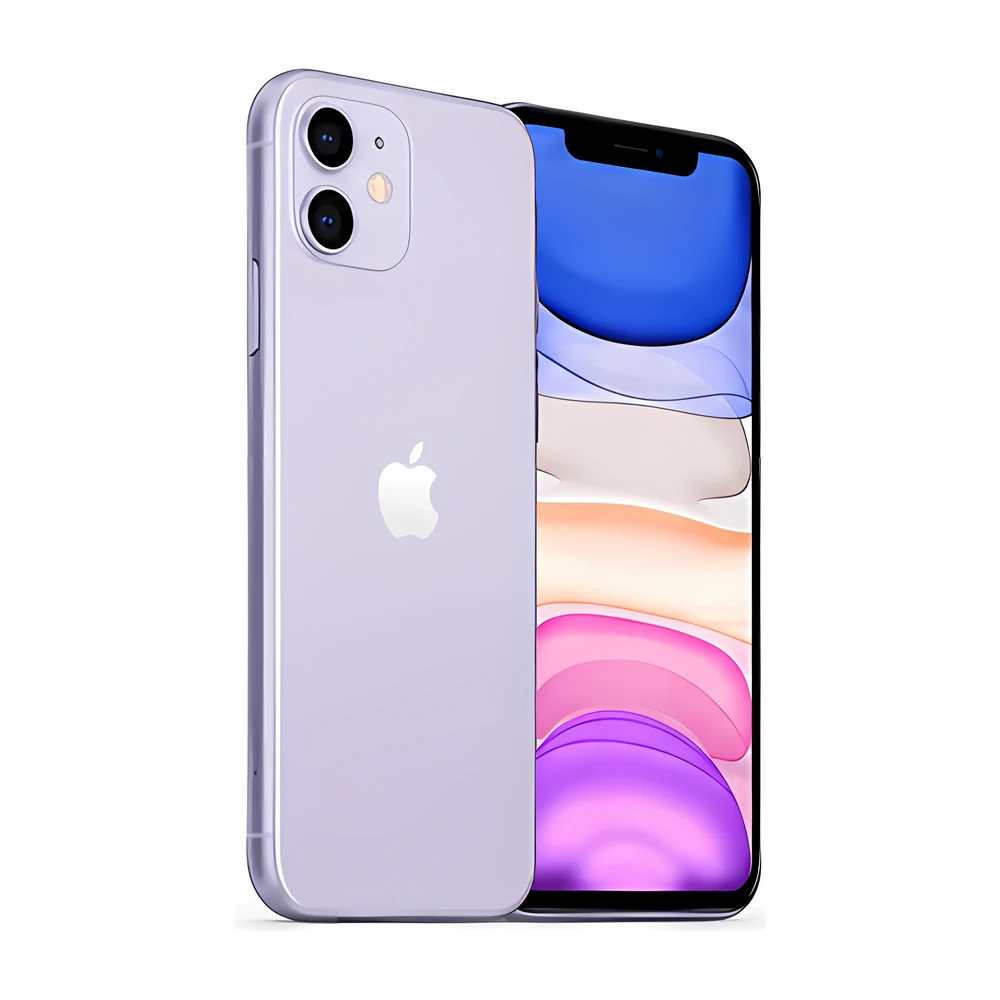
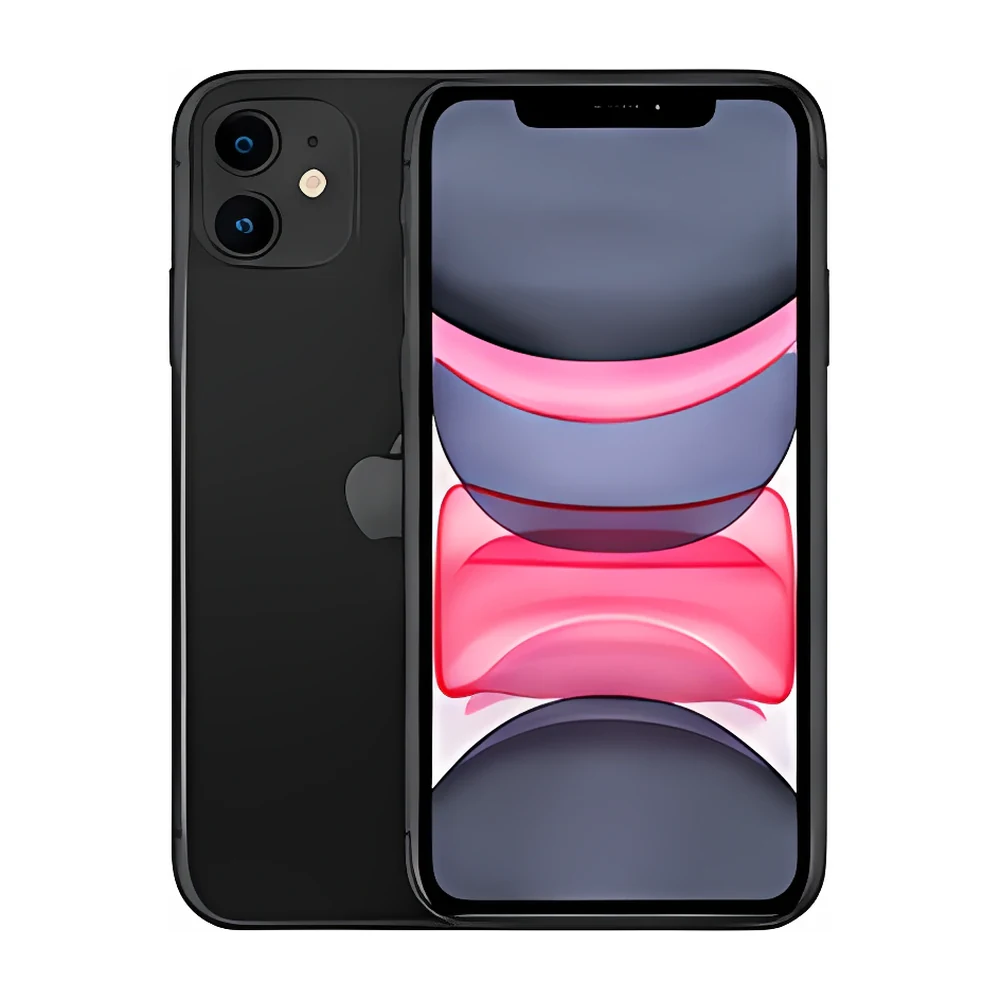
v2.2 fotos reales por modelo+color

diff --git a/scripts/propagar-imagenes.py b/scripts/propagar-imagenes.py
@@ -1,0 +1,109 @@
+#!/usr/bin/env python3
+"""
+Asignación de fotos por MODELO + COLOR, con propagación.
+
+Regla de esta etapa: una foto correcta del modelo y color vale más que un SVG
+generado. Si un iPhone 13 Azul sirve para cinco referencias del mismo modelo y
+color, se reutiliza la misma foto en las cinco.
+
+Orden de preferencia para cada unidad:
+  1. foto ya asignada a su propia referencia (la más precisa)
+  2. foto de una unidad del mismo modelo Y mismo color
+  3. foto de una unidad del mismo modelo (cualquier color) — solo si la unidad
+     no declara color, para no publicar un color equivocado
+  4. imagen generada
+"""
+import os as _os, sys as _sys
+_sys.path.insert(0, _os.path.dirname(_os.path.abspath(__file__)))
+_os.chdir(_os.path.dirname(_os.path.dirname(_os.path.abspath(__file__))))
+
+import json, os, shutil, tempfile, collections
+from validar_imagen import analizar
+
+DESTINO = "public/productos"
+RECORTES = os.environ.get("RECORTES_DIR") or os.path.join(tempfile.gettempdir(), "lam")
+REALES = (".webp", ".jpg", ".jpeg", ".png")
+
+
+def color_de(u):
+    c = u.get("color") or (u.get("colores") or [None])[0]
+    return (c or "").strip().lower() or None
+
+
+def ruta_real(ref):
+    return next((f"{DESTINO}/{ref}{e}" for e in REALES if os.path.exists(f"{DESTINO}/{ref}{e}")), None)
+
+
+def main():
+    catalogo = [p for p in json.load(open("data/catalogo.json", encoding="utf-8")) if p["publicado"]]
+    antes = sum(1 for p in catalogo if ruta_real(p["ref"]))
+
+    # ---- 1. incorporar los recortes nuevos según el mapa verificado ----
+    mapa = json.load(open("scripts/mapa-laminas.json", encoding="utf-8"))
+    banco = {}   # (modelo, color) -> ruta de archivo fuente
+    nuevos = 0
+    for lamina, entradas in mapa.items():
+        if lamina.startswith("_"):
+            continue
+        for e in entradas:
+            origen = os.path.join(RECORTES, lamina, f"{lamina}-{e['i']:02d}.webp")
+            if not os.path.exists(origen):
+                continue
+            if not analizar(origen)["ok"]:
+                print(f"  descartado (no pasa validación): {lamina}-{e['i']:02d}")
+                continue
+            clave = (e["modelo"], (e["color"] or "").lower() or None)
+            banco.setdefault(clave, origen)
+            nuevos += 1
+
+    # ---- 2. sumar al banco las fotos ya validadas del catálogo ----
+    for p in catalogo:
+        r = ruta_real(p["ref"])
+        if r:
+            banco.setdefault((p["modelo"], color_de(p)), r)
+
+    # índice por modelo, para el caso de unidades sin color declarado
+    por_modelo = collections.defaultdict(list)
+    for (modelo, color), ruta in banco.items():
+        por_modelo[modelo].append((color, ruta))
+
+    # ---- 3. asignar a cada unidad ----
+    propagadas, exactas, sin_foto = 0, 0, []
+    for p in catalogo:
+        if ruta_real(p["ref"]):
+            exactas += 1
+            continue
+
+        color = color_de(p)
+        origen = banco.get((p["modelo"], color))
+
+        if not origen and not color:
+            # sin color declarado: cualquier foto del modelo es válida
+            opciones = por_modelo.get(p["modelo"])
+            if opciones:
+                origen = opciones[0][1]
+
+        if not origen:
+            sin_foto.append(p["modelo"])
+            continue
+
+        shutil.copy(origen, os.path.join(DESTINO, f'{p["ref"]}.webp'))
+        propagadas += 1
+
+    despues = sum(1 for p in catalogo if ruta_real(p["ref"]))
+    faltantes = sorted(set(sin_foto))
+
+    print(f"\nRecortes nuevos incorporados : {nuevos}")
+    print(f"Fotos reales antes           : {antes}")
+    print(f"Asignadas por propagación    : {propagadas}")
+    print(f"Fotos reales después         : {despues} / {len(catalogo)}")
+    print(f"Siguen con imagen generada   : {len(catalogo) - despues}")
+    print(f"Modelos sin fotografía       : {len(faltantes)}")
+
+    with open("reportes/modelos-sin-foto.txt", "w", encoding="utf-8") as f:
+        f.write("\n".join(faltantes))
+
+
+if __name__ == "__main__":
+    os.makedirs("reportes", exist_ok=True)
+    main()

diff --git a/scripts/aplicar-biblioteca.py b/scripts/aplicar-biblioteca.py
@@ -1,0 +1,92 @@
+#!/usr/bin/env python3
+"""
+Aplica la biblioteca de fotos por MODELO + COLOR a todas las referencias del catálogo.
+
+Una foto del iPhone 12 Pro azul sirve para las cinco unidades de ese modelo y color:
+son el mismo producto. Se reutiliza en todas en lugar de dejarlas con imagen generada.
+
+Prioridad de coincidencia:
+  1. modelo exacto + color exacto
+  2. modelo exacto, cualquier color   (sólo si la unidad no declara color)
+Nunca se usa la foto de un color distinto al declarado.
+"""
+import os as _os, sys as _sys
+_sys.path.insert(0, _os.path.dirname(_os.path.abspath(__file__)))
+_os.chdir(_os.path.dirname(_os.path.dirname(_os.path.abspath(__file__))))
+
+import glob, json, shutil, unicodedata
+from validar_imagen import analizar
+
+BIBLIOTECA = "fotos-modelo"
+DESTINO = "public/productos"
+
+SINONIMOS = {
+    "titanio natural": "natural", "titanio negro": "negro", "titanio blanco": "blanco",
+    "titanio azul": "azul", "space black": "negro", "space gray": "gris",
+    "medianoche": "negro", "black": "negro", "white": "blanco", "blue": "azul",
+    "silver": "plata", "plata": "blanco", "gold": "dorado", "red": "rojo",
+    "morado": "lila", "purpura": "lila", "violeta": "lila", "grafito": "gris",
+    "titanium": "titanio", "desert": "dorado", "ultramarino": "azul",
+    "azul sierra": "celeste", "verde azulado": "verde", "rosado": "rosa",
+}
+
+def norm(s: str) -> str:
+    s = unicodedata.normalize("NFD", str(s or "").lower().strip())
+    s = "".join(c for c in s if unicodedata.category(c) != "Mn")
+    return SINONIMOS.get(s, s)
+
+def clave_modelo(s: str) -> str:
+    s = unicodedata.normalize("NFD", str(s).lower())
+    s = "".join(c for c in s if unicodedata.category(c) != "Mn")
+    return "".join(c for c in s if c.isalnum())
+
+# índice de la biblioteca: {(modelo, color): ruta}
+fotos = {}
+for f in glob.glob(f"{BIBLIOTECA}/*.webp"):
+    base = _os.path.basename(f)[:-5]
+    mod, _, col = base.partition("__")
+    fotos[(clave_modelo(mod.replace("_", " ")), norm(col))] = f
+
+catalogo = json.load(open("data/catalogo.json", encoding="utf-8"))
+nuevas, ya, sin_foto = 0, 0, []
+
+for p in catalogo:
+    if not p["publicado"]:
+        continue
+    ref = p["ref"]
+    if any(_os.path.exists(f"{DESTINO}/{ref}{e}") for e in (".webp", ".jpg", ".jpeg", ".png")):
+        ya += 1
+        continue
+
+    km = clave_modelo(p["modelo"])
+    colores = [p["color"]] if p["color"] else (p["colores"] or [])
+    elegida = None
+    for c in colores:
+        elegida = fotos.get((km, norm(c)))
+        if elegida:
+            break
+    if not elegida and not colores:
+        elegida = next((v for (m, _), v in fotos.items() if m == km), None)
+
+    if not elegida:
+        sin_foto.append((p["modelo"], p["categoria"]))
+        continue
+    if not analizar(elegida)["ok"]:
+        sin_foto.append((p["modelo"], p["categoria"]))
+        continue
+
+    shutil.copy(elegida, f"{DESTINO}/{ref}.webp")
+    nuevas += 1
+
+pub = [p for p in catalogo if p["publicado"]]
+reales = sum(1 for p in pub if any(_os.path.exists(f'{DESTINO}/{p["ref"]}{e}') for e in (".webp", ".jpg", ".jpeg", ".png")))
+print(f"Fotos ya asignadas   : {ya}")
+print(f"Nuevas desde biblioteca: {nuevas}")
+print(f"COBERTURA            : {reales}/{len(pub)} con foto real ({100*reales//len(pub)}%)")
+
+import collections
+faltan = collections.Counter(sin_foto)
+print(f"\nModelos sin fotografía: {len(faltan)}")
+with open("reportes/modelos-sin-foto.txt", "w", encoding="utf-8") as f:
+    for (mod, cat), n in sorted(faltan.items(), key=lambda x: (x[0][1], x[0][0])):
+        f.write(f"{cat:<12} {mod}  ({n} unidades)\n")
